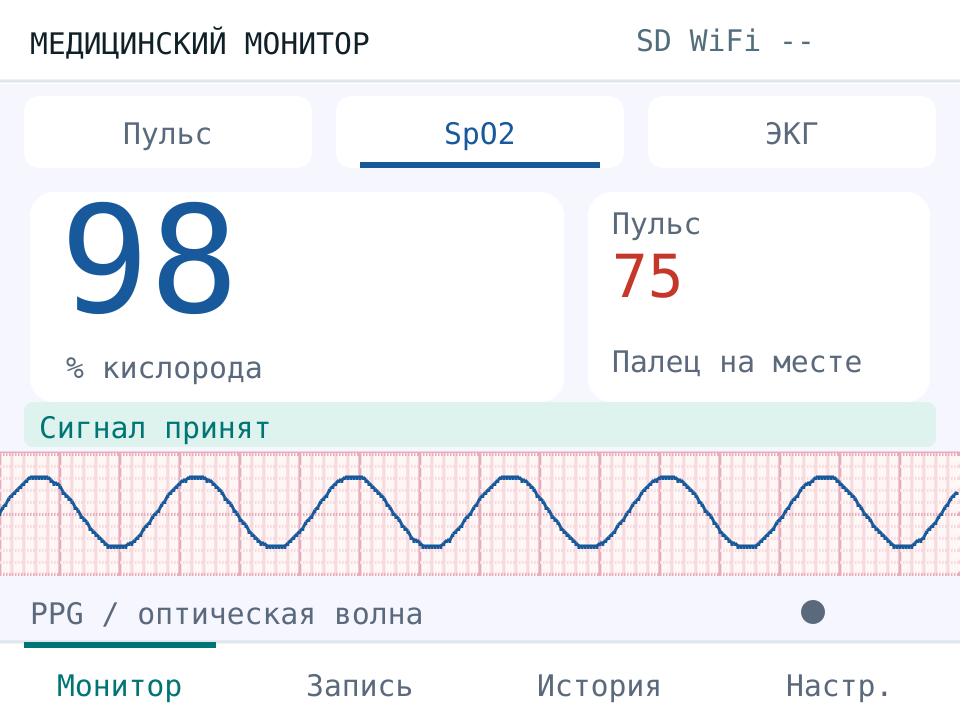
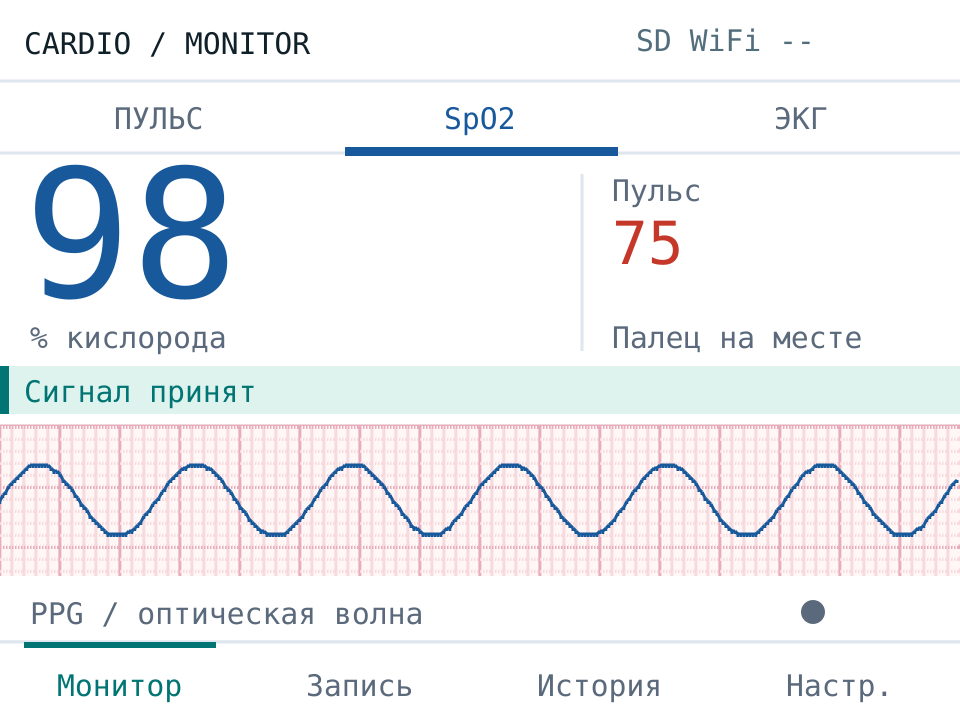
Simplify TFT interface into a flat clinical monitor and verify device upload

diff --git a/Monitor soft/tools/preview_display.py b/Monitor soft/tools/preview_display.py
@@ -89,7 +89,7 @@ void printFit(String text,int x,int baseline,int width){
 #define SCREEN_W 320
 #define HEADER_H 28
 constexpr int SCR_ECG=1,SCR_PULSE=2,SCR_SPO2=3;
-constexpr int GRAPH_TOP=87,GRAPH_BOTTOM=170,PPG_TOP=151,PPG_BOTTOM=192;
+constexpr int GRAPH_TOP=78,GRAPH_BOTTOM=170,PPG_TOP=142,PPG_BOTTOM=192;
 constexpr float PPG_GAIN=.015f;
 int currentScreen=SCR_PULSE,graphX=0,prevEcgY=0;
 uint32_t lastHeader=0,lastDisplayStats=0,previousEcgBin=0;

diff --git a/Monitor soft/docs/light-interface.md b/Monitor soft/docs/light-interface.md
@@ -1,10 +1,17 @@
 # Светлый интерфейс CardioMonitor
 
 Все экраны прибора и Android-приложения используют светлую тему. Палитра:
-фон `#F3F6F8`, текст `#14202B`, второстепенный текст `#5B6B78`, белые карточки,
+фон приложения `#F3F6F8`, фон прибора белый, текст `#14202B`, второстепенный текст `#5B6B78`, белые карточки,
 бирюзовый акцент, пульс `#C0392B`, SpO₂ `#1A5A99`. На TFT цвета квантуются в RGB565.
 
 ## Прибор 320×240
+
+Прибор оформлен как компактная панель медицинского монитора: ровный белый фон,
+тонкие разделители, плоские вкладки без округлых карточек. Основные цифры увеличены
+с масштаба 5 до 6; вспомогательная статистика отделена вертикальной линией.
+Область ЭКГ увеличена с 83 до 92 пикселей по высоте, мини-график — с 41 до 50.
+Состояние сигнала занимает одну полосу с цветовым маркером. История, настройки
+и список Wi-Fi используют плоское выделение выбранной строки.
 
 Ниже **иллюстрации с синтетическими данными, не измерения человека**.
 Их создаёт `tools/preview_display.py`, компилируя функции отрисовки из настоящего
@@ -37,6 +44,15 @@ for name in pulse oxygen ecg no-signal; do
     -o "Monitor soft/docs/light-interface/$name.png"
 done
 ```
+
+## Проверка и загрузка
+
+10 октября 2026 года прошивка собрана для `esp32:esp32:makergo_c3_supermini`
+и загружена через Arduino CLI на ESP32-C3 (4 МБ) по `/dev/ttyACM1`.
+Загрузчик подтвердил контрольную сумму записанных данных и выполнил сброс платы.
+Размер программы — 1 147 079 байт, статические данные — 45 420 байт.
+Визуальные примеры выше проверены на компьютере; реальный дисплей дистанционно
+не наблюдался.
 
 ## Android
 

diff --git a/README.md b/README.md
@@ -44,8 +44,9 @@ ESP32 собирает и обрабатывает сигналы, рисует 
 
 ## Светлый интерфейс
 
-Прибор и приложение используют светлый фон, белые карточки, бирюзовые акценты,
-красную ЧСС и синюю SpO₂. ЭКГ рисуется чёрной линией на розовой сетке.
+Прибор использует белую плоскую панель с крупными цифрами и тонкими разделителями;
+приложение — светлый фон и белые карточки. Общие акценты: бирюзовый,
+красная ЧСС и синяя SpO₂. ЭКГ рисуется чёрной линией на розовой сетке.
 На приборе кнопки измерения: **Монитор → Запись → История → Настройки**;
 кнопка «Монитор» по кругу переключает Пульс / SpO₂ / ЭКГ.
 В списках остаются Вверх / Вниз / OK / Назад.

diff --git a/Monitor soft/README.md b/Monitor soft/README.md
@@ -128,7 +128,8 @@ MAX30102 RED/IR ─────┘        ↕                     ↓
 
 ## Светлый интерфейс и управление
 
-Все экраны светлые. При включении открывается «Пульс»: крупная оптическая ЧСС,
+Все экраны светлые: белый фон, плоские строки, тонкие разделители, крупные цифры
+без декоративных карточек. При включении открывается «Пульс»: крупная оптическая ЧСС,
 минимум/среднее/максимум принятых значений за сеанс и мини-ЭКГ. «SpO₂» показывает
 сатурацию, оптическую ЧСС, контакт пальца и PPG. «ЭКГ» показывает один канал,
 предварительную ЧСС и состояние качества.
